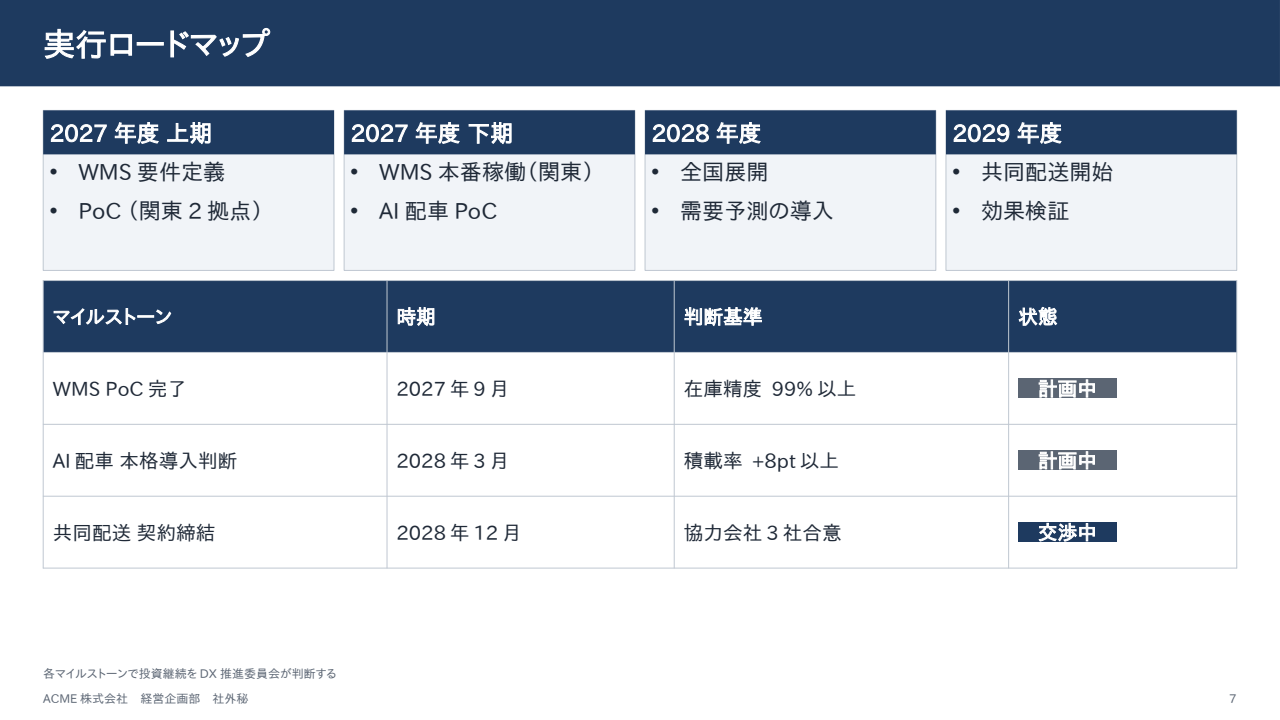
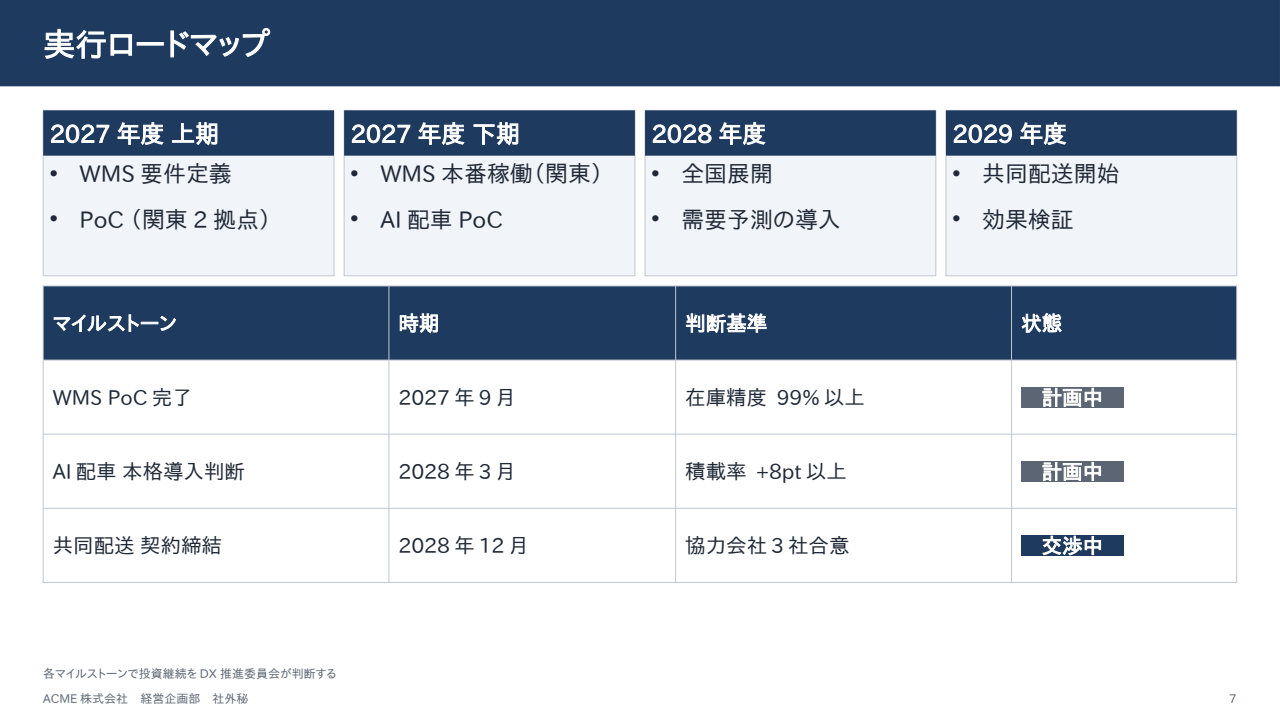
Merge fuller sparse cards on dense slides (growth to 1.6× body, para gap ≤ 0.8 em, card ≤ 1.6× natural); gallery
Claude-Session: https://claude.ai/code/session_01FTTSNJirWF5LfZpEgrZ9ef

diff --git a/README.md b/README.md
@@ -47,7 +47,7 @@ slidemark skill install      # cài skill cho Claude Code
 ## Ảnh slide mẫu (cập nhật hằng ngày)
 
 <!-- gallery:start -->
-Cập nhật: 2026-10-05 · commit `c5e5be2` · tạo tự động bởi `scripts/gallery.py`.
+Cập nhật: 2026-10-05 · commit `ecaa9c1` · tạo tự động bởi `scripts/gallery.py`.
 
 ### Cơ bản: tiêu đề, danh sách, box, bảng, biểu đồ
 
